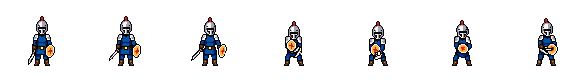
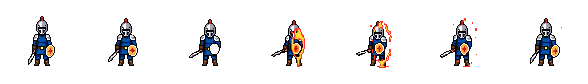
v7.3: nemici, élite e boss Pixellab, nuova icona del gioco
Con «Grafica Pixellab» accesa anche i 30 nemici (comuni, élite e boss)
sono disegnati con PixelLab: figura ovunque compaiano, animazione
d'attacco quando agiscono e «colpito» al posto del lampo bianco.
Immagini in pixel/nemici/. Ignivora e Azhrakel ora sono ben distinti
(drago rosso / tiranno di ossidiana viola). Rifatti attacco e colpito
del Guerriero e attacco e difesa del Paladino. Nuova icona del gioco
(rocca tra Luce e Ombra). 52 prove automatiche.

diff --git a/index.html b/index.html
@@ -209,7 +209,11 @@ body[data-dg="cripte"] .mapsvg .edge.done{stroke:#8fd3ff}body[data-dg="cripte"] 
 .ally>.pxh{width:63px;height:63px;margin:-11px -18px -12px}
 /* figura ferma fuori dal combattimento: la cella di 84 px è ritagliata sulla parte centrale di 56 px, dove stanno tutti gli eroi */
 .pxs{aspect-ratio:1/1;height:auto;background-repeat:no-repeat;background-size:150% 150%;background-position:50% 43%;image-rendering:pixelated;flex:none}
-.pxh.pxan{background-size:calc(var(--n) * 100%) 100%;animation:pxan var(--d) steps(var(--n),jump-none) 1 forwards}
+.spr.pxan{background-size:calc(var(--n) * 100%) 100%;animation:pxan var(--d) steps(var(--n),jump-none) 1 forwards}
+/* nemici Pixellab: la figura riempie un quadrato di lato --t (come lo sprite); la cella intera sborda con margini negativi, così attacchi ed effetti escono dal riquadro */
+.pxe{display:block;flex:none;max-width:none;background-repeat:no-repeat;background-position:0 0;background-size:100% 100%;image-rendering:pixelated;margin:calc(var(--t)*var(--mt)) calc(var(--t)*var(--mr)) calc(var(--t)*var(--mb)) calc(var(--t)*var(--ml))}
+.pxe,.ent.enemy .face .spr.pxe{width:calc(var(--t)*var(--k));height:calc(var(--t)*var(--k))}
+.spr.inl.pxe{display:inline-block;vertical-align:middle}
 @keyframes pxan{from{background-position:0 0}to{background-position:100% 0}}
 .ent .nm{font-size:13px;font-weight:700;line-height:1.15}
 .intent .spr,.blk .spr,.chip .spr{width:14px!important;height:14px!important}
@@ -333,6 +337,7 @@ body.hc{--muted:#ddd6ea;--line:#8d82a6}body.hc .card .cdesc{color:#15101c}body.h
   .ally>.spr{width:24px;height:auto}.ally .nm{font-size:11px;white-space:nowrap;overflow:hidden;text-overflow:ellipsis}.ally small{font-size:10px}.ally .bar{height:14px;min-width:0}.ally .bar span{font-size:10.5px}
   .ally .chips{display:none}
   .hero .face .pxh{width:92px;height:92px;margin:-15px -26px -17px}.ally>.pxh{width:50px;height:50px;margin:-9px -15px -10px}
+  .enemy .face .pxe{--t:58px!important}.enemy.boss .face .pxe{--t:120px!important}
   .enemy{min-width:96px}
   .card{width:100px;min-height:150px;padding:5px 5px 7px}
   .card .cname{font-size:13px}.card .cdesc{font-size:11.5px}
@@ -788,7 +793,7 @@ const ic=(name,px=16)=>`<img class="spr inl" src="${spr(name)}" width="${px}" he
 const relIc=(id,px=20)=>ic('r_'+id,px);
 // Grafica Pixellab (Sviluppo): la figura ferma dell'eroe al posto dello sprite, solo per il nome semplice dell'eroe (con un aspetto, «eroe@aspetto», resta lo sprite)
 const pxFig=name=>{try{return !!(SET.px&&CLASSES[name]&&PXI[name])}catch(e){return false}};
-const sprImg=(name,px,cls='',noPx)=>{if(!noPx&&pxFig(name))return `<span class="spr pxs ${cls}" role="img" aria-label="${CLASSES[name].n}" style="width:${px}px;background-image:url(pixel/${name}.png)"></span>`;const src=spr(name);const a=SPR[name]||ICONS[name]||SPR[String(name).split('@')[0]];return `<img class="spr ${cls}" src="${src}" width="${px}" height="${Math.round(px*a.length/a[0].length)}" alt="">`};
+const sprImg=(name,px,cls='',noPx)=>{if(!noPx&&pxeOk(name))return pxeHTML(name,px,cls);if(!noPx&&pxFig(name))return `<span class="spr pxs ${cls}" role="img" aria-label="${CLASSES[name].n}" style="width:${px}px;background-image:url(pixel/${name}.png)"></span>`;const src=spr(name);const a=SPR[name]||ICONS[name]||SPR[String(name).split('@')[0]];return `<img class="spr ${cls}" src="${src}" width="${px}" height="${Math.round(px*a.length/a[0].length)}" alt="">`};
 
 /* ================= DATI DI GIOCO ================= */
 const CLASSES={
@@ -1697,6 +1702,7 @@ function doIntent(e){
   if(it.summon&&alive().length<5){const ne=mkEnemy(it.summon);c.enemies.push(ne);fx(eid(ne),'Evocato!','blk')}
   if(it.heal){const b=e.hp;e.hp=Math.min(e.max,e.hp+Math.round(it.heal*(1+.7*(c.n-1))));fx(eid(e),'+'+(e.hp-b),'heal')}
   if(it.d||it.deb||it.curse){
+    fxq.push({k:eid(e),txt:'',cls:'pxa'});// segnale per l'animazione d'attacco della Grafica Pixellab
     const fix=p=>{const tt=taunter();if(tt)return tt;if(p&&c.heroes[p]&&!c.heroes[p].down)return p;const t=targetable();return t.length?rng.pick(t):null};
     const hitOnce=()=>{const hb=run.hp;hurtHero(calcDmg(enemyBase(e,it),e,g.hero));if(e.trait==='vampiro'&&hb>run.hp){const v=Math.floor((hb-Math.max(0,run.hp))*trv('vampiro')/100);if(v>0){e.hp=Math.min(e.max,e.hp+v);fx(eid(e),'+'+v,'heal')}}if(g.hero.st.spine)hurtEnemy(e,g.hero.st.spine);if(has('scaglia')&&!g.hero.down)hurtEnemy(e,3);if(g.hero.pw.rappr&&!g.hero.down)hurtEnemy(e,g.hero.pw.rappr)};
     const debuff=()=>{if(g.hero.down)return;if(it.deb)g.hero.st[it.deb]=(g.hero.st[it.deb]||0)+it.dn;if(it.curse)addCurse(it.curse,it.cn||1);if((it.deb||it.curse)&&isDark(e))omAdd(CUR,1)};
@@ -2147,9 +2153,11 @@ const PX_AN=['attacco','difesa','colpito'],PX_FD=85;
 const PXI={};let pxReq=false;
 const PXA={};// pid -> {an,t0}: animazione in corso, così sopravvive ai ridisegni della schermata
 function pxLoad(){if(pxReq)return;pxReq=true;let left=0;const done=()=>{if(--left===0&&SET.px)render()};
-  Object.keys(CLASSES).forEach(c=>['',...PX_AN].forEach(a=>{const k=a?c+'-'+a:c,im=new Image();left++;
+  const keys=[];Object.keys(CLASSES).forEach(c=>['',...PX_AN].forEach(a=>keys.push(a?c+'-'+a:c)));
+  Object.keys(PXE).forEach(id=>['',...PXE_AN].forEach(a=>keys.push('nemici/'+id+(a?'-'+a:''))));
+  keys.forEach(k=>{const im=new Image();left++;
     im.onload=()=>{PXI[k]={n:Math.max(1,Math.round(im.naturalWidth/Math.max(1,im.naturalHeight)))};done()};
-    im.onerror=()=>{PXI[k]=null;done()};im.src='pixel/'+k+'.png'}))}
+    im.onerror=()=>{PXI[k]=null;done()};im.src='pixel/'+k+'.png'})}
 // la figura PixelLab si usa solo con l'interruttore acceso, senza aspetto attivo e con l'immagine caricata
 const pxCls=P=>SET.px&&P&&CLASSES[P.cls]&&hsk(P)===P.cls&&PXI[P.cls]?P.cls:null;
 const pxMove=()=>SET.anim&&!(window.matchMedia&&matchMedia('(prefers-reduced-motion: reduce)').matches);
@@ -2159,9 +2167,28 @@ function heroArt(P,pid,px){const c=pxCls(P);if(!c)return sprImg(hsk(P),px,'idle'
   const a=PXA[pid];let an=null,ago=0;
   if(a){const inf=PXI[c+'-'+a.an];ago=Date.now()-a.t0;if(inf&&inf.n>=2&&ago<inf.n*PX_FD&&pxMove())an=a.an;else delete PXA[pid]}
   return `<span class="spr pxh ${an?'pxan':'idle'}" role="img" aria-label="${CLASSES[c].n}" data-px="${c}" style="${pxStyle(c,an,ago)}" onanimationend="pxEnd(event,this)"></span>`}
-function pxEnd(e,sp){if(e.animationName!=='pxan')return;const c=sp.dataset.px;sp.className='spr pxh idle';sp.style.cssText=pxStyle(c)}
-// fa partire un'animazione su un eroe (k = 'h-<pid>'); false se non si può e serve il vecchio effetto
-function pxPlay(k,an){if(!SET.px||!R||!R.players||String(k).slice(0,2)!=='h-')return false;const pid=k.slice(2),c=pxCls(R.players[pid]);
+function pxEnd(e,sp){if(e.animationName!=='pxan')return;
+  if(sp.dataset.pxe){const id=sp.dataset.pxe;sp.className='spr pxe '+(sp.dataset.cls||'');sp.style.cssText=pxeCss(id,sp.style.getPropertyValue('--t'));return}
+  const c=sp.dataset.px;sp.className='spr pxh idle';sp.style.cssText=pxStyle(c)}
+/* Nemici, élite e boss (pixel/nemici/). Per ognuno: [lato della cella, riquadro della figura x0,y0,x1,y1, frame dell'attacco, frame del colpito].
+   Con un'immagine mancante resta lo sprite disegnato nel codice. */
+const PXE={goblin:[68,25,10,43,55,7,7],ratto:[88,26,27,75,58,7,7],melma:[64,3,4,62,61,7,7],scheletro:[68,24,10,44,58,7,7],coboldo:[68,22,12,44,55,7,7],lupo:[84,24,24,72,58,7,7],bandito:[68,24,10,44,58,7,7],orco:[116,40,30,74,99,7,7],spettro:[64,0,8,64,56,7,7],zombi:[68,24,10,44,58,7,7],ragno:[64,2,3,61,58,7,7],cultista:[68,24,11,44,58,7,7],pipistrello:[64,0,4,64,59,7,7],imp:[68,20,10,48,55,7,7],salamandra:[64,3,3,59,61,7,7],segugio:[84,24,17,72,58,7,7],troll:[116,39,29,74,99,7,7],cavaliere:[96,35,14,62,80,7,7],golem:[96,5,3,92,91,7,7],vampiro:[104,35,15,70,84,7,7],strega:[120,39,18,76,93,7,7],demone:[116,43,19,73,99,7,7],automa:[92,34,15,59,78,7,7],sacerdote:[96,35,17,67,81,7,7],drago:[128,3,3,124,123,7,7],signoreguerra:[172,53,42,110,147,7,7],lich:[160,56,25,106,136,7,7],verme:[128,0,8,128,125,7,7],tiranno:[172,56,25,116,145,7,7],colosso:[172,61,29,112,147,7,7]};
+const PXE_AN=['attacco','colpito'];
+function pxeOk(id){try{return !!(SET.px&&PXE[id]&&PXI['nemici/'+id])}catch(e){return false}}
+// la figura (non la cella) riempie un quadrato di lato --t, centrata
+function pxeCss(id,t,an,ago){const [C,x0,y0,x1,y1]=PXE[id],F=Math.max(x1-x0,y1-y0),cx=(x0+x1)/2,cy=(y0+y1)/2,r=v=>+v.toFixed(4);
+  const inf=an&&PXI['nemici/'+id+'-'+an],img=inf&&inf.n>=2?`background-image:url(pixel/nemici/${id}-${an}.png);--n:${inf.n};--d:${inf.n*PX_FD}ms;animation-delay:-${Math.max(0,ago|0)}ms`:`background-image:url(pixel/nemici/${id}.png)`;
+  return `--t:${t};--k:${r(C/F)};--mt:${r(.5-cy/F)};--mr:${r(.5-(C-cx)/F)};--mb:${r(.5-(C-cy)/F)};--ml:${r(.5-cx/F)};${img}`}
+function pxeHTML(id,px,cls,key){let an=null,ago=0;const a=key&&PXA[key];
+  if(a){const inf=PXI['nemici/'+id+'-'+a.an];ago=Date.now()-a.t0;if(inf&&inf.n>=2&&ago<inf.n*PX_FD&&pxMove())an=a.an;else delete PXA[key]}
+  return `<span class="spr pxe ${an?'pxan':cls||''}" role="img" aria-label="${esc(ENEMIES[id].n)}" data-pxe="${id}" data-cls="${cls||''}" style="${pxeCss(id,px+'px',an,ago)}" onanimationend="pxEnd(event,this)"></span>`}
+// fa partire un'animazione su un eroe (k = 'h-<pid>') o su un nemico (k = 'e<indice>'); false se non si può e serve il vecchio effetto
+function pxPlay(k,an){if(!SET.px||!R)return false;k=String(k);
+  if(/^e\d+$/.test(k)){const en=R.combat&&R.combat.enemies[+k.slice(1)];if(!en||en.hp<=0||!pxeOk(en.id))return false;
+    const inf=PXI['nemici/'+en.id+'-'+an];if(!inf||inf.n<2)return false;if(!pxMove())return true;
+    PXA[k]={an,t0:Date.now()};const sp=document.querySelector('#ent-'+k+' .pxe');
+    if(sp){const t=sp.style.getPropertyValue('--t');sp.className='spr pxe';sp.style.cssText=pxeCss(en.id,t);void sp.offsetWidth;sp.className='spr pxe pxan';sp.style.cssText=pxeCss(en.id,t,an,0)}return true}
+  if(!R.players||k.slice(0,2)!=='h-')return false;const pid=k.slice(2),c=pxCls(R.players[pid]);
   const inf=c&&PXI[c+'-'+an];if(!inf||inf.n<2)return false;if(!pxMove())return true;
   PXA[pid]={an,t0:Date.now()};const el=document.getElementById('ent-'+k),sp=el&&el.querySelector('.pxh');
   if(sp){sp.className='spr pxh';sp.style.cssText=pxStyle(c);void sp.offsetWidth;sp.className='spr pxh pxan';sp.style.cssText=pxStyle(c,an,0)}return true}
@@ -2524,7 +2551,7 @@ function combatScreen(){
   const PG=(g.pings&&!solo)?g.pings:{};const pgE=j=>Object.keys(PG).filter(p=>PG[p].k==='e'&&PG[p].j===j&&R.players[p]),pgH=Object.keys(PG).filter(p=>PG[p].k==='h'&&R.players[p]&&g.heroes[p]&&!g.heroes[p].down);
   const pgTag=(p,t)=>`<span class="pingtag" style="--pc:${pcol(p)}">${p===ME?'Tu':esc(R.players[p].name)}: ${t}</span>`;
   const en=g.enemies.map((e,j)=>`<button class="ent enemy ${e.boss?'boss':''} ${e.hp<=0?'dead':''} ${(sel&&!sel.ally||UI.ping)&&e.hp>0?'target':''} ${pgE(j).length&&e.hp>0?'pinged':''}" style="${pgE(j).length?'--pc:'+pcol(pgE(j)[0]):''}" id="ent-e${j}" onclick="clickEnemy(${j})" ${e.hp<=0?'disabled':''} aria-label="${e.n}, ${e.hp} PV">
-      ${e.hp>0&&pgE(j).length?`<span class="pings">${pgE(j).map(p=>pgTag(p,'attacco questo!')).join('')}</span>`:''}${intentHTML(e)}<span class="face">${sprImg(e.id,e.boss?150:(ENEMIES[e.id].elite?96:80),'idle')}</span><span class="nm">${e.n}</span>${e.trait?`<span class="etrait" role="button" tabindex="0" onclick="event.stopPropagation();trInfo('${e.trait}')">${ETRAITS[e.trait][0]}</span>`:''}${isDark(e)?`<span class="etrait dark" role="button" tabindex="0" onclick="event.stopPropagation();darkInfo()">Creatura d'ombra</span>`:''}${ENEMIES[e.id].spine?`<span class="etrait" role="button" tabindex="0" onclick="event.stopPropagation();toast('Corpo di lava: chi lo colpisce con un Attacco subisce ${ENEMIES[e.id].spine} danni.')">Corpo di lava</span>`:''}${hpBar(e.hp,e.max)}
+      ${e.hp>0&&pgE(j).length?`<span class="pings">${pgE(j).map(p=>pgTag(p,'attacco questo!')).join('')}</span>`:''}${intentHTML(e)}<span class="face">${pxeOk(e.id)?pxeHTML(e.id,e.boss?150:(ENEMIES[e.id].elite?96:80),'idle','e'+j):sprImg(e.id,e.boss?150:(ENEMIES[e.id].elite?96:80),'idle')}</span><span class="nm">${e.n}</span>${e.trait?`<span class="etrait" role="button" tabindex="0" onclick="event.stopPropagation();trInfo('${e.trait}')">${ETRAITS[e.trait][0]}</span>`:''}${isDark(e)?`<span class="etrait dark" role="button" tabindex="0" onclick="event.stopPropagation();darkInfo()">Creatura d'ombra</span>`:''}${ENEMIES[e.id].spine?`<span class="etrait" role="button" tabindex="0" onclick="event.stopPropagation();toast('Corpo di lava: chi lo colpisce con un Attacco subisce ${ENEMIES[e.id].spine} danni.')">Corpo di lava</span>`:''}${hpBar(e.hp,e.max)}
       ${e.blk?`<span class="blk">${ic('i_shield',12)} ${e.blk}</span>`:''}${chips(e)}</button>`).join('');
   const cl=CLASSES[run.cls];
   const allies=Object.keys(g.heroes).filter(p=>p!==ME).map(p=>{const a=g.heroes[p],P=R.players[p];return `<div class="ent ally ${a.down?'down':''} ${sel&&sel.ally&&!a.down?'target':''}" id="ent-h-${p}" onclick="clickHero('${p}')">${heroArt(P,p,34)}
@@ -2998,7 +3025,7 @@ function startVoteAnim(va){
 }
 function paintAnim(){document.querySelectorAll('.mapsvg .node').forEach(n=>{n.classList.toggle('spin',!!UI.anim&&n.dataset.k===UI.anim.cur)})}
 /* ================= IMPOSTAZIONI ================= */
-const VERSION='v7.2',VDATE='17/11';
+const VERSION='v7.3',VDATE='17/11';
 const SET_K='valdombra-impostazioni';
 const SET_DEF={mus:.5,sfx:.7,mute:false,chat:true,chatToast:true,anim:!(window.matchMedia&&matchMedia('(prefers-reduced-motion: reduce)').matches),vib:true,ts:1,hc:false,tut:true,stats:true,lo:true,vil:true,gem:true,px:false};
 let SET=(()=>{try{return Object.assign({},SET_DEF,JSON.parse(load(SET_K)||'{}'))}catch(e){return Object.assign({},SET_DEF)}})();
@@ -3046,7 +3073,7 @@ function settingsHTML(){
       ${swb('lo','Luce e Ombra','Le carte si possono giocare dal lato Ombra, più forte ma rischioso, e ci sono le creature d\'ombra. In gruppo vale la scelta di chi crea la stanza, dalla partita successiva.')}
       ${swb('vil','Villaggio di Valdombra','La missione secondaria: ricostruisci gli edifici per avere vantaggi a inizio partita.')}
       ${swb('gem','Gemme','La seconda moneta per aspetti, cimeli permanenti e cambio in Corone. Spenta, gli aspetti tornano a costare Corone.')}
-      ${swb('px','Grafica Pixellab','Gli eroi sono disegnati con PixelLab ovunque compaiano, dalla scelta dell\'eroe ai riepiloghi; in combattimento si muovono quando attaccano, si difendono o vengono colpiti. Vale solo su questo dispositivo. Con un aspetto attivo, o se un\'immagine non si carica, resta lo sprite di sempre.')}
+      ${swb('px','Grafica Pixellab','Eroi, nemici e boss sono disegnati con PixelLab ovunque compaiano, dalla scelta dell\'eroe ai riepiloghi; in combattimento si muovono quando attaccano, si difendono o vengono colpiti. Vale solo su questo dispositivo. Con un aspetto attivo, o se un\'immagine non si carica, resta lo sprite di sempre.')}
       ${R&&R.phase!=='lobby'?'<p class="muted" style="font-size:13px">Luce e Ombra cambia dalla prossima partita.</p>':''}
     </div>
     <div class="panel"><h4>${ic('i_gear',18)} Informazioni</h4>
@@ -3054,7 +3081,7 @@ function settingsHTML(){
       <div class="srow"><div class="lab">Codice<small>Hai un codice? Scrivilo qui.</small></div><input id="rcode" class="txt" maxlength="40" style="max-width:200px" autocomplete="off" placeholder="Codice"><button class="btn" onclick="redeem()">Usa</button></div>
       <div class="srow"><div class="lab">Profilo</div><b>${ACC?esc(ACC.nome):'nessuno'}</b><button class="btn" onclick="openProfilo()">${ACC?'Gestisci':'Accedi'}</button></div>
       ${inRoom?`<div class="srow"><div class="lab">Stanza</div><b>${R.code}</b></div><div class="srow"><div class="lab">Connessione</div><b>${isHost?'Sei tu a guidare la stanza':'Collegato'}</b></div>`:''}
-      <p class="muted" style="font-size:13px">Novità della 7.2: con «Grafica Pixellab» accesa gli eroi disegnati con PixelLab compaiono ovunque, anche nella scelta dell'eroe, nei menu e nei riepiloghi. Novità della 7.1: in Sviluppo c'è «Grafica Pixellab», spenta di base. Accesa, in combattimento gli eroi sono disegnati con PixelLab e hanno le animazioni di attacco, difesa e colpo subito. Novità della 7.0: il pulsante «Gioca» sempre visibile per scegliere la modalità; Luce e Ombra (ogni carta si può giocare dal lato Ombra, più forte ma rischioso; creature d'ombra, mercante, eventi e bottino reagiscono alla tua Ombra), il Villaggio di Valdombra da ricostruire per avere vantaggi in ogni partita, e le Gemme, la seconda moneta per cimeli permanenti e aspetti. Si possono spegnere da Sviluppo. Dalla 6.4: la sfida del giorno usa tutti e 10 gli eroi e non ripete eroe, dungeon o modificatore del giorno prima; dalla 6.3: corretto il blocco quando l'eroe cade per una carta Ustione o Maledizione, tratti delle élite più leggeri (soprattutto da soli); dalla 6.2: aspetto Autunno per Ladro, Ranger e Druido, barra per la dimensione del testo, Guida del gioco, il tutorial riprende da dove eri rimasto; dalla 6.0: tutorial, Imprese con corone, un secondo boss per ogni dungeon, élite con tratti speciali, segnali in combattimento, rianimazione, aspetti degli eroi, opzioni di accessibilità e statistiche anonime; dalla 5.4: in multigiocatore ognuno deve aver sbloccato il dungeon e il Livello di Assedio scelto; in modalità normale i dungeon si sbloccano solo completando il precedente, in Sopravvivenza anche superando lì un ciclo; sei nuovi eroi da sbloccare (Necromante, Ranger, Druido, Monaco, Guardiano, Paladino); dalla 4.0: terzo dungeon, carte di gruppo, sfida del giorno, diario con statistiche ed enciclopedia, riepilogo di fine partita, percorsi disegnati sulla mappa, «Riprendi il turno» e gioco installabile.</p>
+      <p class="muted" style="font-size:13px">Novità della 7.3: con «Grafica Pixellab» accesa anche nemici, élite e boss sono disegnati con PixelLab, attaccano e reagiscono ai colpi; nuova icona del gioco. Novità della 7.2: con «Grafica Pixellab» accesa gli eroi disegnati con PixelLab compaiono ovunque, anche nella scelta dell'eroe, nei menu e nei riepiloghi. Novità della 7.1: in Sviluppo c'è «Grafica Pixellab», spenta di base. Accesa, in combattimento gli eroi sono disegnati con PixelLab e hanno le animazioni di attacco, difesa e colpo subito. Novità della 7.0: il pulsante «Gioca» sempre visibile per scegliere la modalità; Luce e Ombra (ogni carta si può giocare dal lato Ombra, più forte ma rischioso; creature d'ombra, mercante, eventi e bottino reagiscono alla tua Ombra), il Villaggio di Valdombra da ricostruire per avere vantaggi in ogni partita, e le Gemme, la seconda moneta per cimeli permanenti e aspetti. Si possono spegnere da Sviluppo. Dalla 6.4: la sfida del giorno usa tutti e 10 gli eroi e non ripete eroe, dungeon o modificatore del giorno prima; dalla 6.3: corretto il blocco quando l'eroe cade per una carta Ustione o Maledizione, tratti delle élite più leggeri (soprattutto da soli); dalla 6.2: aspetto Autunno per Ladro, Ranger e Druido, barra per la dimensione del testo, Guida del gioco, il tutorial riprende da dove eri rimasto; dalla 6.0: tutorial, Imprese con corone, un secondo boss per ogni dungeon, élite con tratti speciali, segnali in combattimento, rianimazione, aspetti degli eroi, opzioni di accessibilità e statistiche anonime; dalla 5.4: in multigiocatore ognuno deve aver sbloccato il dungeon e il Livello di Assedio scelto; in modalità normale i dungeon si sbloccano solo completando il precedente, in Sopravvivenza anche superando lì un ciclo; sei nuovi eroi da sbloccare (Necromante, Ranger, Druido, Monaco, Guardiano, Paladino); dalla 4.0: terzo dungeon, carte di gruppo, sfida del giorno, diario con statistiche ed enciclopedia, riepilogo di fine partita, percorsi disegnati sulla mappa, «Riprendi il turno» e gioco installabile.</p>
       <p class="muted" style="font-size:13px">Le impostazioni (audio, chat, grafica) valgono solo per questo dispositivo. I progressi di gioco seguono il tuo profilo.</p>
       <div><button class="btn" onclick="SET=Object.assign({},SET_DEF);saveSet();render()">Ripristina le impostazioni</button></div>
     </div></div>`;

diff --git a/tests/prove.js b/tests/prove.js
@@ -215,7 +215,7 @@ const ok=(cond,msg)=>{console.log((cond?'  ok   ':'  ERRORE ')+msg);if(!cond)fal
     SET.px=false;saveSet();nuova('guerriero');r.spenta=!document.querySelector('.pxh')&&!!document.querySelector('#ent-h-pA img.spr');
     openSettings();r.interruttore=document.querySelector('button.sw[aria-label="Grafica Pixellab"]')?.getAttribute('aria-pressed')==='false';closeModal();
     // accesa: le 40 immagini e la figura di ogni eroe
-    SET.px=true;saveSet();let w=0;while(Object.keys(PXI).length<40&&w<300){await sleep(10);w++}
+    SET.px=true;saveSet();let w=0;while(Object.keys(PXI).length<130&&w<600){await sleep(10);w++}
     r.caricate=Object.values(PXI).filter(Boolean).length;
     r.senzaFigura=Object.keys(CLASSES).filter(cls=>{nuova(cls);const s=sp('pA');return !(s&&s.style.backgroundImage.includes('pixel/'+cls+'.png')&&s.classList.contains('idle'))});
     nuova('guerriero');
@@ -232,6 +232,13 @@ const ok=(cond,msg)=>{console.log((cond?'  ok   ':'  ERRORE ')+msg);if(!cond)fal
     const kf=PXI.guerriero;PXI.guerriero=null;render();r.sprite=!sp('pA')&&!!document.querySelector('#ent-h-pA img.spr');PXI.guerriero=kf;
     // con un aspetto attivo resta lo sprite dell'aspetto
     setSkin('guerriero','cremisi');r.aspetto=!sp('pA')&&!!document.querySelector('#ent-h-pA img.spr');setSkin('guerriero',null);
+    // nemici: figura, attacco quando agiscono, colpito quando subiscono danni
+    nuova('guerriero');const ne=sel=>{const s=document.querySelector(sel);return s?s.className+'|'+s.style.backgroundImage:''};
+    r.nemFig=ne('#ent-e0 .pxe');ctx(ME);const e0=g.enemies[0];e0.intent={d:3};
+    const gq=R.combat.enemies.map(x=>x.id);r.nemTutti=Object.keys(PXE).filter(id=>!PXI['nemici/'+id]||!PXI['nemici/'+id+'-attacco']||!PXI['nemici/'+id+'-colpito']);
+    doIntent(e0);commit();r.nemAtt=ne('#ent-e0 .pxe');await sleep(900);
+    ctx(ME);hurtEnemy(g.enemies[1],2);fx('e1','-2','dmg');commit();r.nemCol=ne('#ent-e1 .pxe');
+    r.nemFlash=!!document.querySelector('#ent-e1 .spr.hit');r.nemiciIn=gq.join(',');await sleep(900);
     // fuori dal combattimento: scelta dell'eroe e negozio degli aspetti
     R=null;solo=true;ME='solo';screen='title';modal=null;render();
     const scelta=()=>[...document.querySelectorAll('.classes .pxs')].map(e=>e.style.backgroundImage);
@@ -240,7 +247,8 @@ const ok=(cond,msg)=>{console.log((cond?'  ok   ':'  ERRORE ')+msg);if(!cond)fal
     SET.px=false;saveSet();render();r.rispenta=!document.querySelector('.pxh')&&!document.querySelector('.pxs');
     R=null;solo=true;ME='solo';screen='title';modal=null;render();return r});
   ok(px.base&&px.spenta&&px.interruttore,'Grafica Pixellab: spenta di base, con l\'interruttore in Sviluppo, e senza resta lo sprite di sempre');
-  ok(px.caricate===40&&!px.senzaFigura.length,`le immagini in pixel/ si caricano (${px.caricate}/40) e ogni eroe ha la sua figura${px.senzaFigura.length?' (mancano: '+px.senzaFigura+')':''}`);
+  ok(px.caricate===130&&!px.senzaFigura.length,`le immagini in pixel/ si caricano (${px.caricate}/130) e ogni eroe ha la sua figura${px.senzaFigura.length?' (mancano: '+px.senzaFigura+')':''}`);
+  ok(!px.nemTutti.length&&/pixel\/nemici\/.+\.png/.test(px.nemFig)&&/pxan/.test(px.nemAtt)&&/-attacco/.test(px.nemAtt)&&/pxan/.test(px.nemCol)&&/-colpito/.test(px.nemCol)&&!px.nemFlash,`nemici (${px.nemiciIn}): figura, attacco quando agiscono, colpito al posto del lampo; tutti i 30 hanno le immagini${px.nemTutti.length?' (mancano: '+px.nemTutti+')':''}`);
   ok(/pxan/.test(px.attacco)&&/guerriero-attacco/.test(px.attacco)&&/pxan/.test(px.resta)&&/idle/.test(px.fine)&&/pixel\/guerriero\.png/.test(px.fine),'carta Attacco: animazione d\'attacco, che continua se la schermata si ridisegna, poi torna la figura ferma');
   ok(/guerriero-difesa/.test(px.difesa)&&/guerriero-colpito/.test(px.colpito)&&!/\bhit\b/.test(px.colpito)&&/mago-colpito/.test(px.compagno),'carta con Armatura: difesa; danni subiti: colpito al posto del lampo, anche per il compagno');
   ok(px.lampo&&px.sprite&&px.aspetto&&px.rispenta,'se un\'immagine manca o c\'è un aspetto attivo resta la grafica di sempre');
